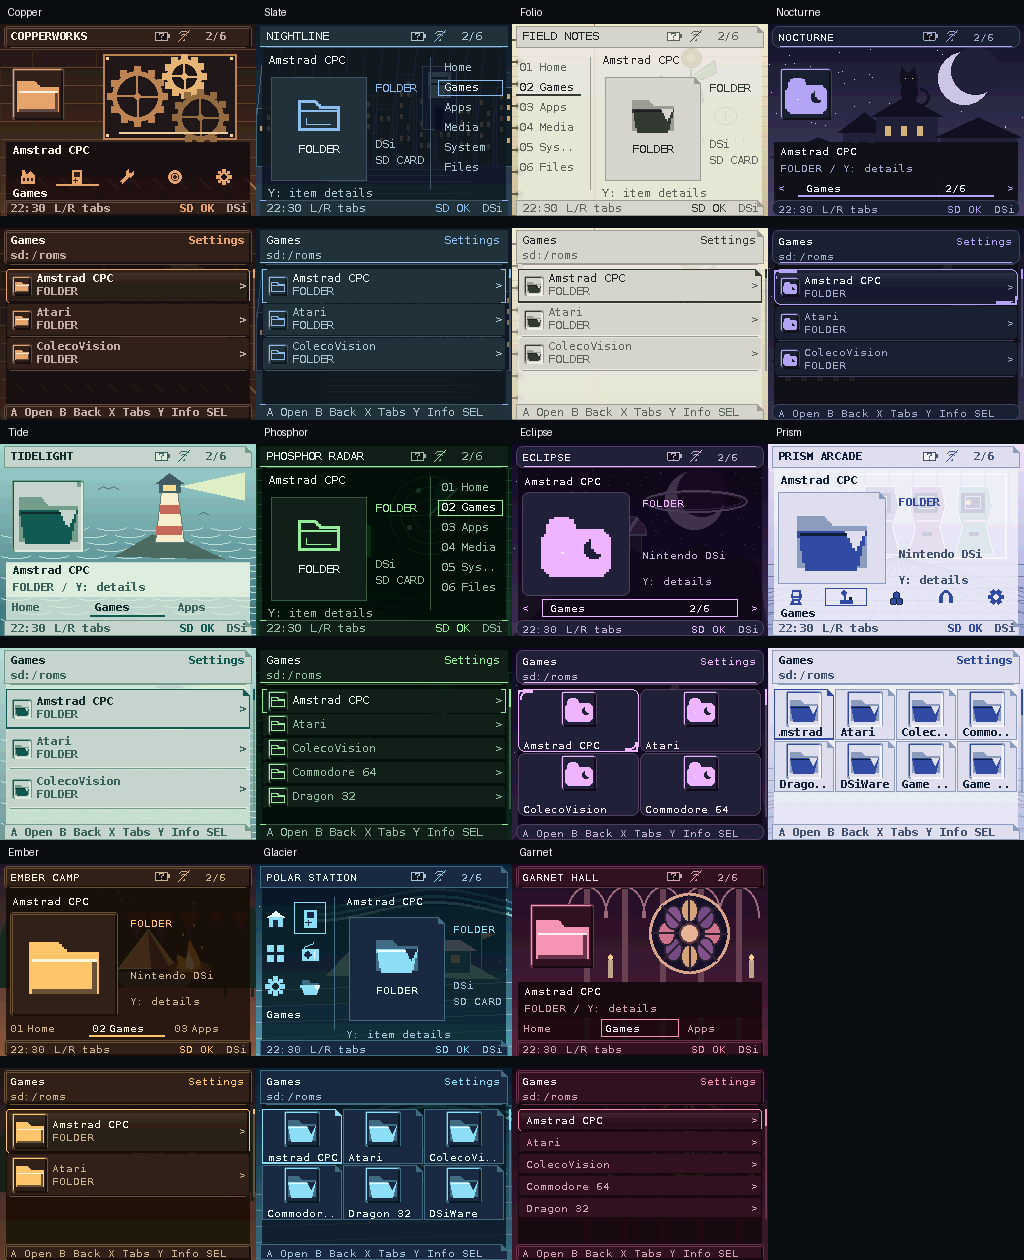
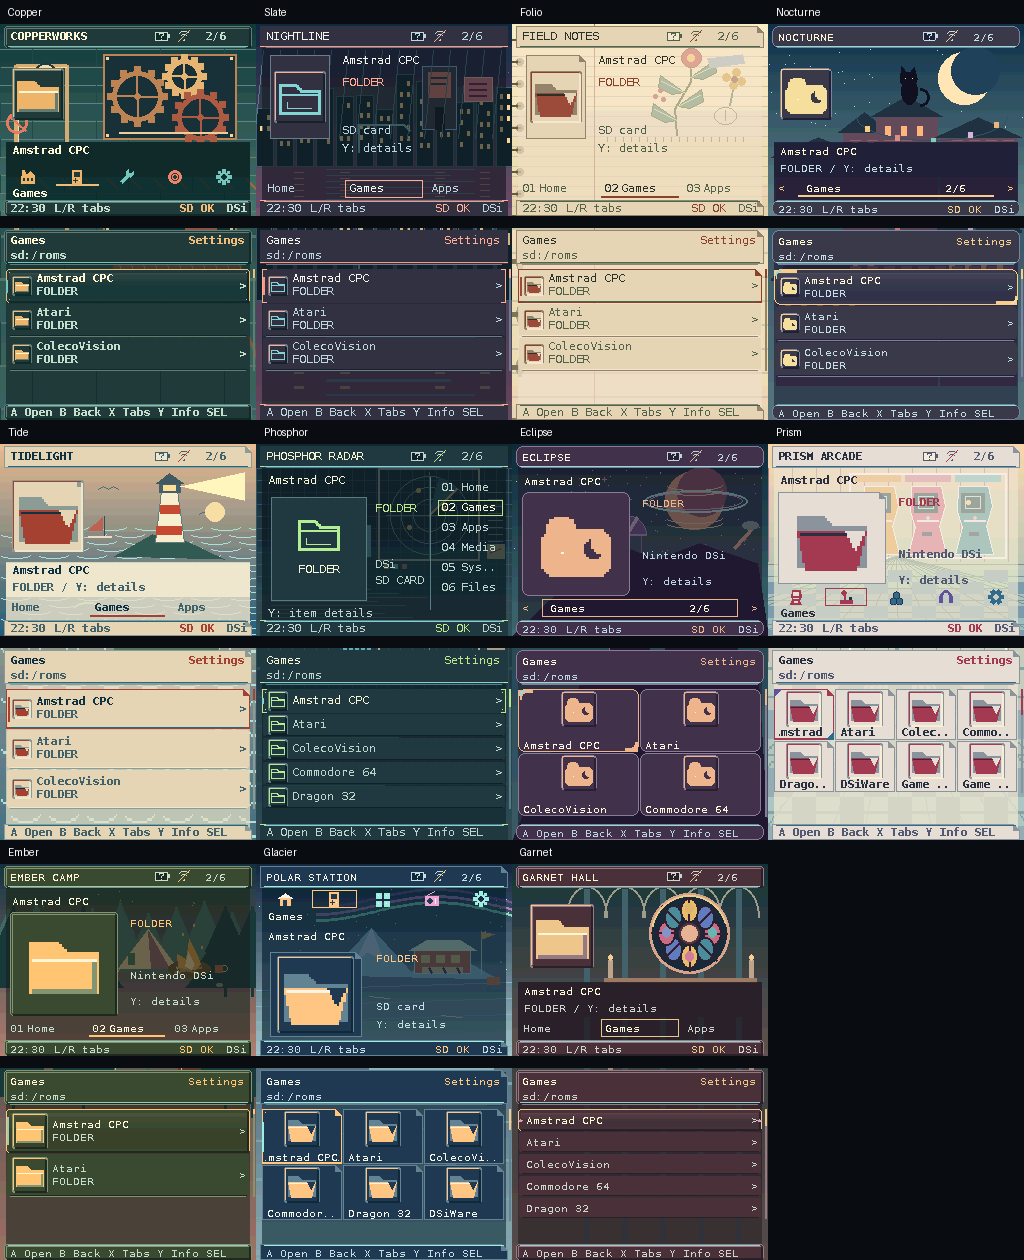
Refresh bundled theme guide and rendered previews

diff --git a/docs/guides/THEME_PACKAGES.md b/docs/guides/THEME_PACKAGES.md
@@ -69,29 +69,37 @@ A, or cancel with B. The packages are ready to copy; no build step is needed.
 
 | Theme | Illustrated identity | Browser character |
 | --- | --- | --- |
-| Copper | Riveted clockwork workshop, meshing brass gears. | Warm metal faces and amber selection edges. |
-| Slate | Rain over a lit city archive. | Blue steel and restrained technical lines. |
-| Folio | Botanical field notebook with a pressed flower. | Warm paper, graphite and folded corners. |
-| Nocturne | Moonlit rooftops with a watchful cat. | Indigo surfaces and soft lunar corners. |
-| Tide | A lighthouse above a quiet coast. | Sea-glass colors and pale chart-like panels. |
-| Phosphor | Radar sweep and instrument grid. | Terminal green, bracket selections and compact rows. |
-| Eclipse | Ringed planet above an observatory. | Dark plum and wide, spacious grid tiles. |
-| Prism | Pastel arcade at closing time. | Bright cabinets, folded panels and dense grid tiles. |
-| Ember | A tent and campfire beneath pine trees. | Canvas-brown rows and warm amber highlights. |
-| Glacier | Polar research outpost beneath an aurora. | Ice-blue panels and larger grid tiles. |
-| Garnet | Rose window and candlelit gothic hall. | Burgundy surfaces and a text-first browser. |
+| Copper | Oxidized teal workshop, brass gears, red pressure wheel and ivory gauge. | Enamel faces, brass fasteners and warm selection edges. |
+| Slate | Navy city rain, coral neon and amber reflections. | Graphite panels, cyan symbols and salmon highlights. |
+| Folio | Pressed flowers, green leaves, blue tape and vermilion berries. | Cream paper, terracotta selection and colored notebook inks. |
+| Nocturne | Blue dusk, warm roofs, a butter-yellow moon and colored lanterns. | Smoky violet surfaces, gold selection and sea-glass symbols. |
+| Tide | Peach sky, blue sea, red-striped lighthouse and coral sail. | Cream charts, navy text and red pencil marks. |
+| Phosphor | Navy instrument enclosure, green radar, cyan controls and amber indicators. | Open brackets and compact instrument rows. |
+| Eclipse | Copper planet, turquoise rings and pink stellar points. | Plum cards, apricot selection and complementary category inks. |
+| Prism | Honey, rose and teal arcade cabinets over a checker floor. | Cream panels, cranberry selection and colored corner tabs. |
+| Ember | Pine-green forest, rose dusk, canvas tent and orange fire. | Olive surfaces, gold edges and pale teal equipment icons. |
+| Glacier | Violet-and-mint aurora, blue ice and safety-orange equipment. | Navy panels, peach highlights and colored instrument symbols. |
+| Garnet | Gold tracery around rose, jade and cobalt stained glass. | Burgundy panels, brass selection and cool secondary inks. |
 
-All eleven packs include original native-resolution illustrations, with four
-screen compositions chosen to suit their character:
+All eleven bundled packs require version-2 theme support. They include original
+native-resolution illustrations, independent screen shading and complementary
+file/tab colors. Prepared `assets.gfx` banks avoid individual sprite PNG reads;
+the editable PNG sources remain alongside them. Opaque rows protect text, while
+only the compact inspector Panel retains partial coverage (256 bytes of coverage
+per loaded pack). Repeated grid/shelf cards stay opaque. Screen shading is prepared during loading. These packs add no
+animation scripts or per-frame file reads.
+
+Screen compositions are chosen to suit their character:
 
 - **Scene — Copper, Nocturne, Tide and Garnet:** illustration above a compact
   inspector and horizontal tabs. Tide uses a larger thumbnail; Garnet a portrait
   framed thumbnail beside its rose window.
 - **Poster — Eclipse, Prism and Ember:** large artwork beside title details,
   with horizontal tabs below.
-- **Left sidebar — Folio and Glacier:** navigation on the left, artwork and
-  information on the right.
-- **Right sidebar — Slate and Phosphor:** artwork and information on the left,
+- **Journal — Folio and Slate:** compact portrait artwork beside a heading and
+  item facts, leaving the scenery visible around them.
+- **Gallery — Glacier:** navigation above artwork and item facts.
+- **Right sidebar — Phosphor:** artwork and information on the left,
   with a persistent tab list on the right.
 
 Icons, cover art, labels and status remain live; none are baked into the
@@ -134,6 +142,10 @@ or verify only these sample assets with the pinned authoring environment:
 ```sh
 .venv/bin/python tools/make_theme_samples.py
 .venv/bin/python tools/make_theme_samples.py --check
+.venv/bin/python tools/make_theme_icons.py
+.venv/bin/python tools/make_theme_components.py
+# Repeat for each edited package after regenerating its PNGs:
+.venv/bin/python tools/pack_theme_assets.py sdroot/_nds/dsi-frontend/themes/copper
 ```
 
 The generator leaves Copper's licensed music and all personal settings alone.
